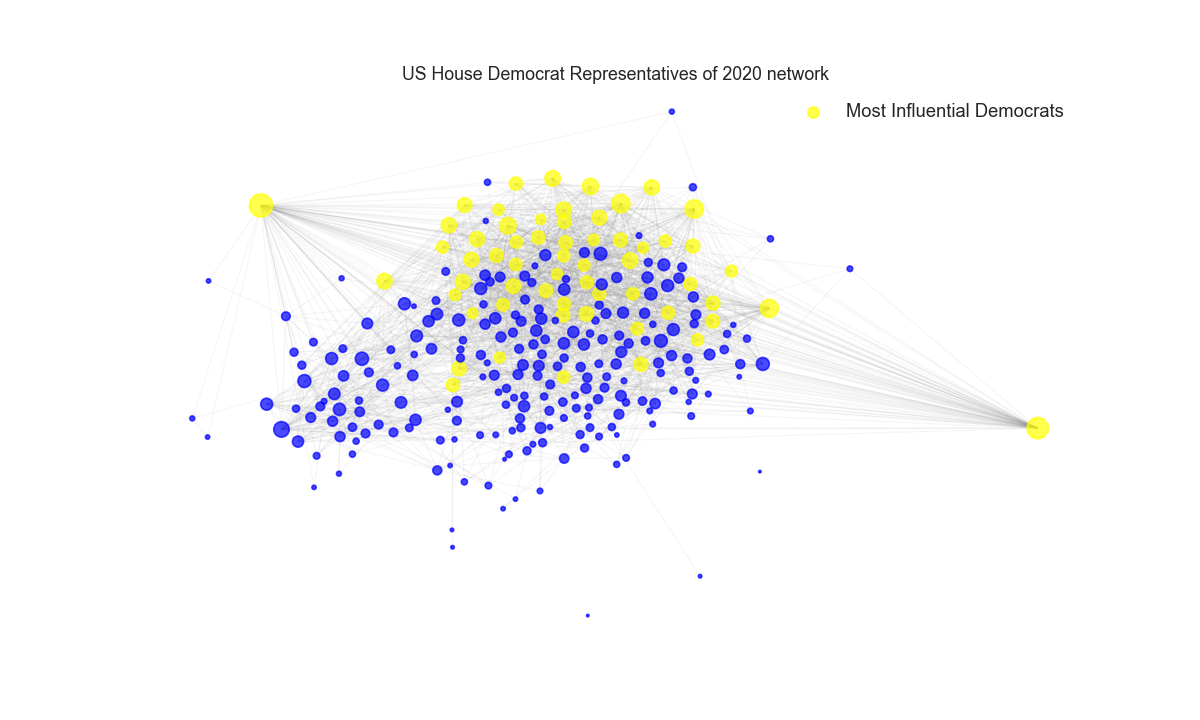
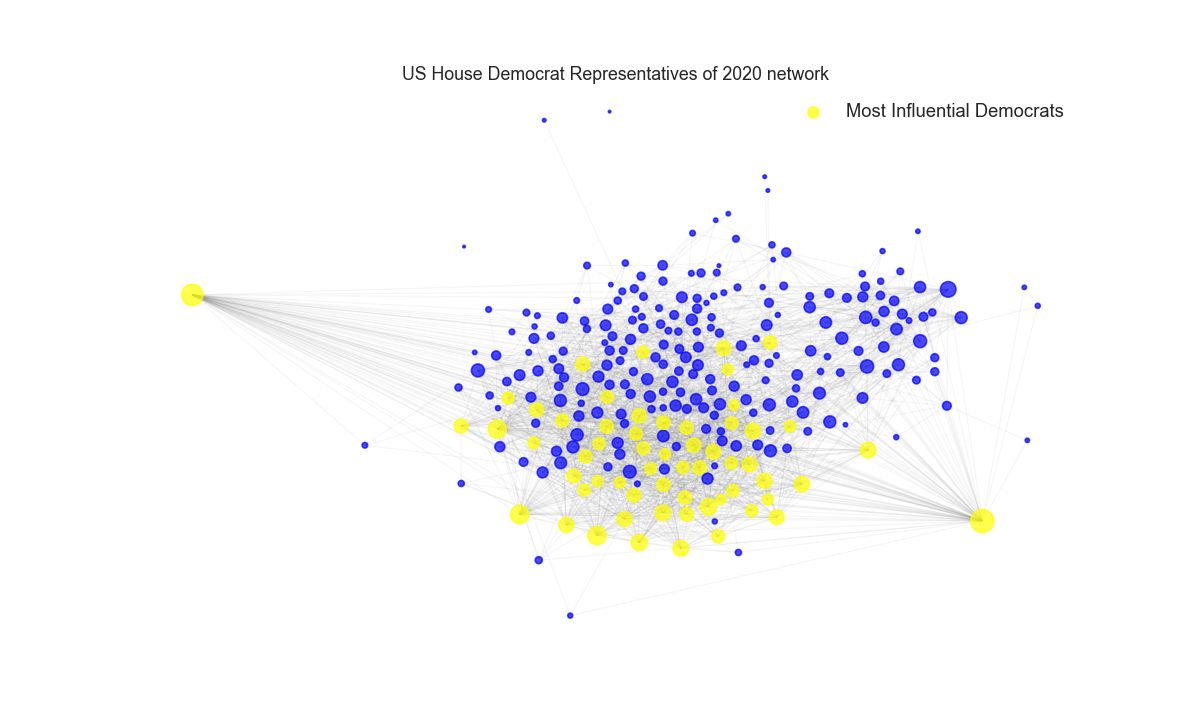
core, truss decomposition

diff --git a/decomposition.py b/decomposition.py
@@ -4,7 +4,7 @@ from fa2 import ForceAtlas2
 import seaborn as sns
 
 
-def core_decomposition_republican(GU):
+def decomposition_republican(GU, core=False, truss=False):
     # Republican Graph
     nodes = (
         node
@@ -13,11 +13,15 @@ def core_decomposition_republican(GU):
     )
 
     GU_Republican = nx.Graph(GU.subgraph(nodes))
-    core_nodes = nx.k_core(GU_Republican, k=9).nodes()
+
+    if core:
+        nodes = nx.k_core(GU_Republican, k=9).nodes()
+    elif truss:
+        nodes = nx.k_truss(GU_Republican, k=5).nodes()
 
     node_color = []
     for node in GU_Republican.nodes():
-        if node in core_nodes:
+        if node in nodes:
             node_color.append("yellow")
         else:
             node_color.append("red")
@@ -49,14 +53,13 @@ def core_decomposition_republican(GU):
 
     positions = forceatlas2.forceatlas2_networkx_layout(GU, pos=None, iterations=2000)
 
-    plt.figure(num=None, figsize=(15, 9), dpi=500, facecolor='w', edgecolor='k')
+    plt.figure(num=None, figsize=(15, 9), dpi=80, facecolor='w', edgecolor='k')
 
     sns.set_style('whitegrid')
     sns.set_context('talk')
 
     # create legend
     plt.scatter([], [], c='yellow', alpha=0.7, s=100, label='Most Influential Republicans')
-    #plt.scatter([], [], c='blue', alpha=0.7, s=100, label='Democrat party')
     plt.legend(scatterpoints=1, frameon=False, labelspacing=1)
 
     nx.draw_networkx_nodes(GU_Republican, positions, node_size=sizes, node_color=node_color, alpha=0.7)
@@ -65,11 +68,15 @@ def core_decomposition_republican(GU):
     ax.collections[0].set_linewidth(0.1)
     ax.set_title('US House Republican Representatives of 2020 network', fontsize=16);
     plt.axis('off')
-    plt.savefig("./images/core_republican.png", format="PNG")
+
+    if core:
+        plt.savefig("./images/core_republican.png", format="PNG")
+    elif truss:
+        plt.savefig("./images/truss_republican.png", format="PNG")
 
 
 
-def core_decomposition_democrat(GU):
+def decomposition_democrat(GU, core=False, truss=False):
     # Democrat Graph
     nodes = (
         node
@@ -78,11 +85,15 @@ def core_decomposition_democrat(GU):
     )
 
     GU_Democrat = nx.Graph(GU.subgraph(nodes))
-    core_nodes = nx.k_core(GU_Democrat, k=12).nodes()
+
+    if core:
+        nodes = nx.k_core(GU_Democrat, k=12).nodes()
+    elif truss:
+        nodes = nx.k_truss(GU_Democrat, k=4).nodes()
 
     node_color = []
     for node in GU_Democrat.nodes():
-        if node in core_nodes:
+        if node in nodes:
             node_color.append("yellow")
         else:
             node_color.append("blue")
@@ -114,14 +125,13 @@ def core_decomposition_democrat(GU):
 
     positions = forceatlas2.forceatlas2_networkx_layout(GU, pos=None, iterations=2000)
 
-    plt.figure(num=None, figsize=(15, 9), dpi=500, facecolor='w', edgecolor='k')
+    plt.figure(num=None, figsize=(15, 9), dpi=80, facecolor='w', edgecolor='k')
 
     sns.set_style('whitegrid')
     sns.set_context('talk')
 
     # create legend
     plt.scatter([], [], c='yellow', alpha=0.7, s=100, label='Most Influential Democrats')
-    #plt.scatter([], [], c='blue', alpha=0.7, s=100, label='Democrat party')
     plt.legend(scatterpoints=1, frameon=False, labelspacing=1)
 
     nx.draw_networkx_nodes(GU_Democrat, positions, node_size=sizes, node_color=node_color, alpha=0.7)
@@ -130,7 +140,11 @@ def core_decomposition_democrat(GU):
     ax.collections[0].set_linewidth(0.1)
     ax.set_title('US House Democrat Representatives of 2020 network', fontsize=16);
     plt.axis('off')
-    plt.savefig("./images/core_democrat.png", format="PNG")
+
+    if core:
+        plt.savefig("./images/core_democrat.png", format="PNG")
+    elif truss:
+        plt.savefig("./images/truss_democrat.png", format="PNG")
 
 
 

diff --git a/main.py b/main.py
@@ -2,7 +2,7 @@ import pandas as pd
 
 from Social_Graphs import graph_generator
 from Social_Graphs import wordclouds
-from Social_Graphs import core_decomposition
+from Social_Graphs import decomposition
 
 if __name__ == "__main__":
     # load data from csv
@@ -26,8 +26,12 @@ if __name__ == "__main__":
     graph_generator.forceatlas_graph(GU)
 
     # core decomposition
-    core_decomposition.core_decomposition_republican(GU)
-    core_decomposition.core_decomposition_democrat(GU)
+    decomposition.decomposition_republican(GU, core=True)
+    decomposition.decomposition_democrat(GU, core=True)
+
+    # truss decomposition
+    decomposition.decomposition_republican(GU, truss=True)
+    decomposition.decomposition_democrat(GU, truss=True)
 
     # word cloud generator
     wordclouds.wordclouds(Data)
